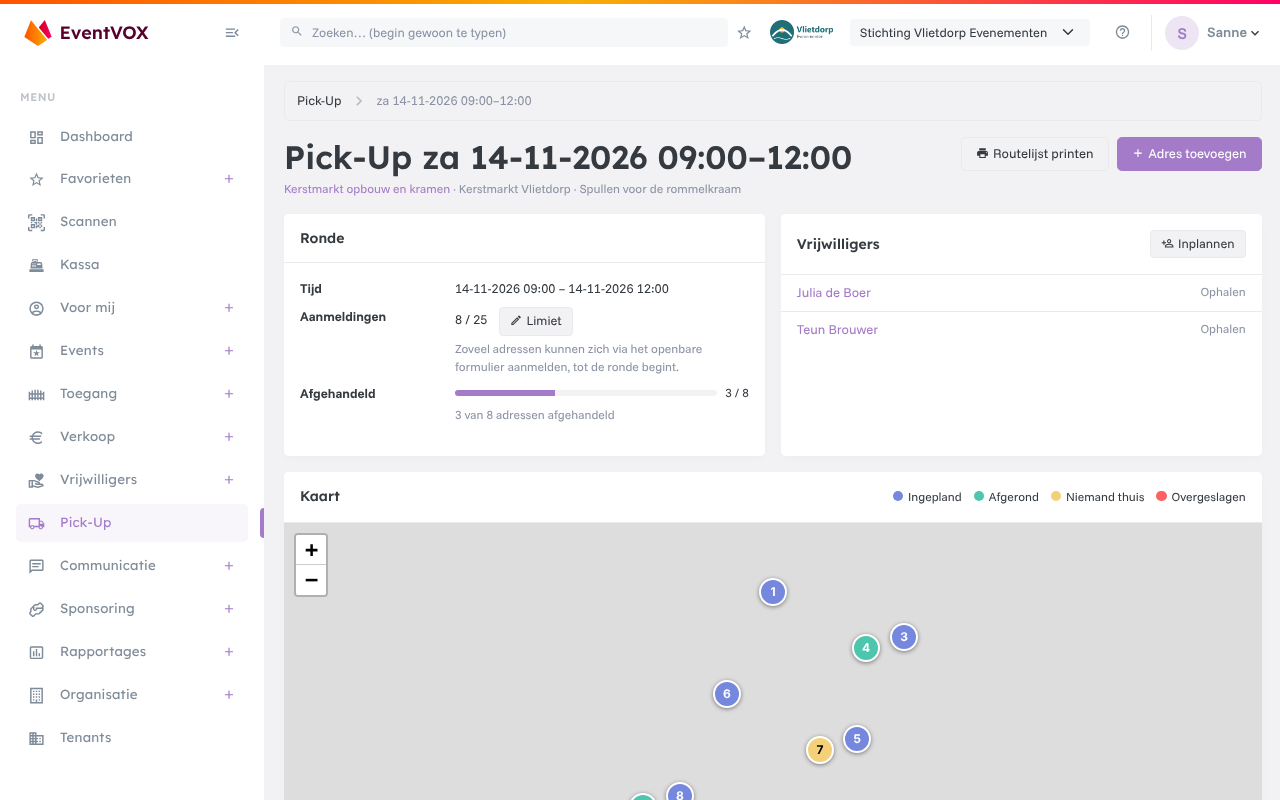
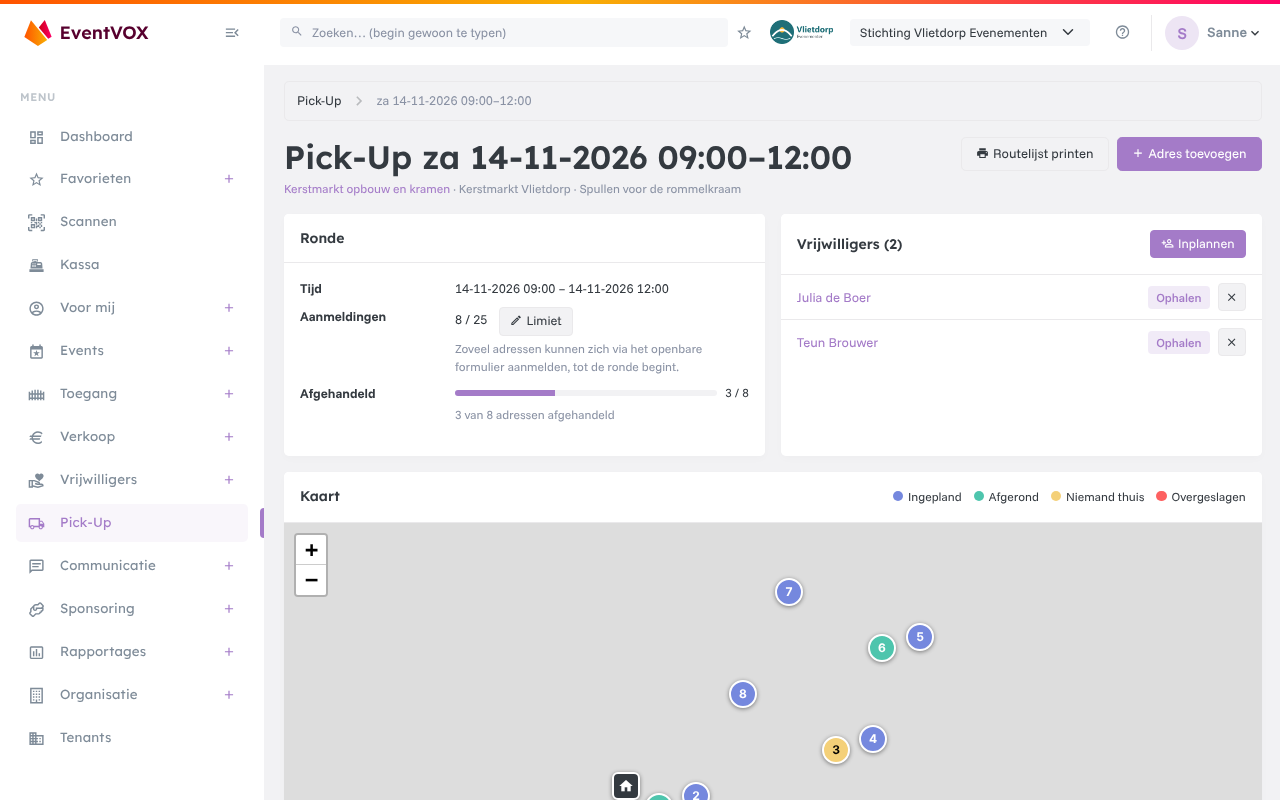
Handleiding: adressen invullen, e-mailadres bevestigen, wachtwoord en tokens, onderhoud, Pick-Up-startpunt met screenshots
Demo seed: account addresses set in the database (a tenant admin's choice now waits for a confirmation link), and the
route start of Pick-Up with its coordinates; capture.js makes pickup-settings.

Claude-Session: https://claude.ai/code/session_01XbTwMg7wxJwi4JQw7oTKWb

diff --git a/tools/screenshots/seed.js b/tools/screenshots/seed.js
@@ -313,6 +313,10 @@ async function volunteersWork(t) {
         } });
         state.pickupAddresses.push(uuidOf(r));
     }
+    // The rounds start at the club's storage shed and come back there (Pick-Up -> Instellingen; coordinates: seed-db.php)
+    await api('PUT', '/pickups/settings', { token: t, body: { route: {
+        name: 'Loods', street: 'Industrieweg', house_number: '4', postal_code: '2951 AB', city: 'Vlietdorp', return: true,
+    } } });
     for (const [i, status] of [[0, 'done'], [1, 'done'], [2, 'not_home']]) {
         await api('PUT', `/pickups/${state.slots.pickup[0]}/addresses/${state.pickupAddresses[i]}`, { token: t, body: { status } }).catch((e) => log('  (status ophaaladres)', e.message));
     }
@@ -503,7 +507,7 @@ async function rolesAndUsers(t) {
         const r = await api('POST', '/users', {
             token: t,
             body: {
-                username: p.email, email: p.email, first_name: p.first_name, last_name_prefix: p.last_name_prefix,
+                username: p.email, first_name: p.first_name, last_name_prefix: p.last_name_prefix,
                 last_name: p.last_name, date_of_birth: p.dob || null, password: PASSWORD, role_uuid: state.roles[role], tenant_uuid: tenantUuid,
             },
         });
@@ -513,6 +517,8 @@ async function rolesAndUsers(t) {
     for (const p of STAFF) await newUser(p, p.role);
     for (const p of VOLUNTEERS) await newUser(p, 'Vrijwilliger');
     for (const p of BUYERS) await newUser(p, 'publiek');
+    // Their email addresses straight into the database (seed-db.php emails: no confirmation mails in the demo)
+    seedDb('emails', { emails: [...STAFF, ...VOLUNTEERS, ...BUYERS].map((p) => p.email) });
     log('gebruikers', Object.keys(state.users).length);
 
     // Volunteers: the role every volunteer gets, the VOG rules, their years and VOGs

diff --git a/tools/screenshots/capture.js b/tools/screenshots/capture.js
@@ -137,6 +137,12 @@ const SHOTS = [
     { name: 'pickup', url: () => `pickup?uuid=${D.slots.pickup[0]}`, before: async () => wait(2500) },
     // The same round on a phone: the addresses as cards with big status buttons
     { name: 'pickup-phone', url: () => `pickup?uuid=${D.slots.pickup[0]}`, viewport: { width: 390, height: 844 }, element: '[data-shot]', before: firstItems('Adressen', 3) },
+    // Pick-Up -> Instellingen: the sign-up form and where the route starts
+    { name: 'pickup-settings', url: 'pickups', viewport: { width: 1280, height: 1500 }, element: '.modal.show .modal-content', before: async (p) => {
+        await clickText(p, 'button', 'Instellingen');
+        await p.waitForSelector('.modal.show #pu-route-street');
+        await wait(1200);
+    } },
     { name: 'report-pickups', url: 'reports-pickups', viewport: { width: 1280, height: 1100 } },
     // Verkoop en webshop
     { name: 'webshop', url: 'webshop' },

diff --git a/tools/screenshots/seed-db.php b/tools/screenshots/seed-db.php
@@ -55,6 +55,17 @@ if ($step === 'bootstrap') {
     exit;
 }
 
+if ($step === 'emails') {
+    // The organisation's people get their (fictional) addresses at once: through the API a tenant admin's choice waits
+    // for a confirmation link mailed to it (only a platform admin sets it directly), and nothing is mailed here
+    $set = 0;
+    foreach ($input['emails'] as $email) {
+        $set += run($db, 'UPDATE users SET email = :email WHERE username = :username AND email IS NULL', ['email' => $email, 'username' => $email]);
+    }
+    echo json_encode(['emails' => $set]) . "\n";
+    exit;
+}
+
 if ($step === 'finish') {
     // Everything the seed made happened "now"; spread it over the past weeks, as if the organisation has been at work
     $tenantId = (int) one($db, 'SELECT id FROM tenants WHERE uuid = :u', ['u' => $input['tenant_uuid']]);
@@ -176,6 +187,9 @@ if ($step === 'finish') {
             'la' => 51.8655 + (($i * 37) % 23 - 11) * 0.0006, 'lo' => 4.6620 + (($i * 53) % 29 - 14) * 0.0008, 'g' => $fmt($now - 3600), 'id' => $id,
         ]);
     }
+
+    // The storage shed where the rounds start: at the edge of the village
+    run($db, 'UPDATE pickup_settings SET route_latitude = :la, route_longitude = :lo WHERE tenant_id = :t', ['la' => 51.8600, 'lo' => 4.6480, 't' => $tenantId]);
 
     // The mailings went out last month: sent, a few messages that bounced
     $sends = $db->prepare('SELECT id FROM mailing_sends WHERE tenant_id = :t ORDER BY id');

diff --git a/aan-de-slag.md b/aan-de-slag.md
@@ -120,9 +120,37 @@ Hier wijzig je:
 - **gekoppelde accounts**, zoals Google;
 - je **meldingen**: welke pushmeldingen je wilt krijgen.
 
+**Je e-mailadres wijzigen:** EventVOX stuurt eerst een bevestigingslink naar het nieuwe adres. Open die link terwijl je
+bent ingelogd met je eigen account; pas dan gaat het nieuwe adres in. Tot die tijd blijft je huidige adres in gebruik en
+staat bij je profiel dat er een wijziging wacht (die kun je ook intrekken). De link werkt 24 uur. Je oude adres krijgt
+een berichtje als het gewijzigd is.
+
+**Je wachtwoord wijzigen** logt je overal uit, behalve hier. Ook je eigen API-tokens en gekoppelde AI-assistenten
+werken daarna niet meer: maak ze opnieuw aan als je ze nog nodig hebt.
+
 Onder **Waar je bent ingelogd** zie je je actieve sessies, en log je er een uit. Sessies die langer dan een dag niet zijn
 gebruikt (zonder *Ingelogd blijven*), bijvoorbeeld van een browser die je hebt gesloten, staan achter de schakelaar
 *Ook niet-actieve tonen*.
+
+### Adressen invullen
+
+Overal waar je een Nederlands adres invult (je profiel, de webshop, het Pick-Up-aanmeldformulier, sponsors), vult
+EventVOX de **straat en plaats** zelf in zodra je de **postcode en het huisnummer** hebt getypt. Onder het huisnummer
+staat dan *Gevonden: Straat, Plaats*. Je kunt de velden daarna nog gewoon aanpassen. Bij het opslaan worden de
+postcode (*1234 AB*) en de plaatsnaam op de officiële manier geschreven, zodat bijvoorbeeld "St M Gestel" en
+"sint michielsgestel" allebei *Sint-Michielsgestel* worden.
+
+Had je de straat al getypt en hoort die niet bij de postcode, dan past EventVOX niets aan. Je ziet dan *Bij 1234 AB 12
+hoort Teststraat, Plaats. Klopt de postcode?* Controleer de postcode, of klik **Dit adres gebruiken** als de straat
+fout was. Ook bij het opslaan wint wat je hebt getypt: een tikfout in de postcode maakt van je adres dus nooit een
+ander adres.
+
+## Even onderhoud
+
+Bij groot onderhoud zet de beheerder van EventVOX het systeem soms even op **onderhoud**. Je ziet dan in de app, de
+webshop en de openbare formulieren een melding *Even onderhoud*, soms met de tijd waarop het weer klaar is. Klik op
+**Opnieuw proberen** als het voorbij is. **Scanterminals** blijven tijdens onderhoud gewoon scannen, en de schermen met
+sponsors en berichten blijven aan. Scannen met de app op je telefoon (de pagina *Scannen*) werkt dan niet.
 
 ## Meldingen en de app
 

diff --git a/organisatie.md b/organisatie.md
@@ -31,7 +31,11 @@ webshopkopers. Filter op soort (*Beheer* of *Publiek*) en op rol.
   persoon maakt daarmee zelf een account aan en kiest zijn eigen wachtwoord. Heeft diegene al een EventVOX-account
   (bij een andere organisatie), dan accepteert hij de uitnodiging met dat account. Open uitnodigingen staan onder de
   lijst; je kunt ze intrekken of een nieuwe link maken.
-- **Nieuwe gebruiker**: je maakt het account zelf aan, met een wachtwoord.
+- **Nieuwe gebruiker**: je maakt het account zelf aan, met een wachtwoord. Vul je een e-mailadres in, dan krijgt de
+  persoon eerst een bevestigingslink op dat adres: pas als hij die opent (ingelogd met dit account) gaat het adres in.
+  Tot die tijd staat het bij de gebruiker als *wacht op bevestiging* en krijgt hij nog geen mails van EventVOX, ook
+  geen wachtwoordreset. Hetzelfde geldt als je het e-mailadres van een bestaande gebruiker wijzigt. Zo kan niemand
+  andermans e-mailadres aan een account koppelen. Webshopkopers wijzigen hun adres zelf in de webshop.
 
 ### De pagina van een gebruiker
 
@@ -160,6 +164,10 @@ AI-assistent.
 - Een token werkt alleen in deze organisatie en kan nooit meer dan jij.
 - Met het recht *API-tokens beheren* maak je ook **applicatie-accounts**: accounts voor een koppeling, die niet kunnen
   inloggen en hun rechten via rollen krijgen.
+
+- **Wachtwoord gewijzigd of gereset?** Dan vervallen alle tokens en gekoppelde AI-assistenten van dat account. Gebruik
+  voor een koppeling die moet blijven werken (zoals een telefoonboek of een vaste AI-koppeling) daarom liever een
+  applicatie-account: dat heeft geen wachtwoord, dus zijn tokens vervallen niet.
 
 {: .let_op }
 Behandel een token als een wachtwoord. Trek een token in zodra het niet meer nodig is.

diff --git a/tools/screenshots/README.md b/tools/screenshots/README.md
@@ -8,7 +8,7 @@ Hiermee maak je alle PNG's in `assets/images/` opnieuw, uit een lokale, fictieve
 |---------|-----|
 | `env.sh` | Lokale omgeving in WSL: database `evx_demo` (opnieuw) maken, servers starten en stoppen |
 | `seed.js` | Bouwt de demo op tegen een **lege** database, zoveel mogelijk via de API (Node, geen dependencies) |
-| `seed-db.php` | Wat niet via de API kan: de admin-tenant met de eerste beheerder, en geschiedenis in het verleden (datums van bestellingen, scans, accounts, logboek; mailboxen zonder echte server; coördinaten van de fictieve Pick-Up-adressen) |
+| `seed-db.php` | Wat niet via de API kan: de admin-tenant met de eerste beheerder, de e-mailadressen van de demo-accounts (via de API wacht een adres op een bevestigingslink), de coördinaten van het startpunt van de Pick-Up-route, en geschiedenis in het verleden (datums van bestellingen, scans, accounts, logboek; mailboxen zonder echte server; coördinaten van de fictieve Pick-Up-adressen) |
 | `capture.js` | Maakt de screenshots met headless Edge (`puppeteer-core`): één lijst `SHOTS` met per afbeelding adres, voorbereiding, viewport en uitsnede |
 | `make-assets.js` | Tekent eenmalig de plaatjes in `assets/` (logo, eventafbeeldingen, sponsorlogo's, productfoto's) |
 

diff --git a/webshop.md b/webshop.md
@@ -61,6 +61,7 @@ Bij het kopen:
 - Bij het kiezen van de deelnemers voor een tickettype ziet de koper wie dat ticket al heeft (**Heeft dit ticket al**)
   of het al besteld maar nog niet betaald heeft. Een tweede ticket kiezen kan nog steeds.
 - Na **Bestellen** controleert de koper zijn **adres en telefoonnummers**. Wat hij wijzigt, komt ook op zijn account.
+  Straat en plaats vullen zich na postcode en huisnummer vanzelf in (zie [Adressen invullen]({{ '/aan-de-slag/#adressen-invullen' | relative_url }})).
   De bestelling bewaart de gegevens zoals ze op dat moment zijn; wijzigt de koper ze later, dan blijft de bestelling
   ze houden. Wat verplicht is, stel je in bij **Gegevens van de koper** (zie hieronder).
 

diff --git a/pick-up.md b/pick-up.md
@@ -67,6 +67,8 @@ Met **Instellingen** op de pagina Pick-Up (recht `pickups:update`{: .recht }) be
 
 Elke organisatie stelt dit zelf in; het geldt ook voor het formulier op je eigen website (de WordPress-plugin).
 
+![Pick-Up instellen]({{ '/assets/images/pickup-settings.png' | relative_url }})
+
 {: .tip }
 Nieuwsberichten met de plek *Pick-Up aanmeldformulier* staan boven het formulier. Handig voor uitleg zoals "zet de
 spullen vóór 9 uur aan de straat". Zie [Nieuws]({{ '/communicatie/#nieuws' | relative_url }}).
